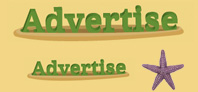
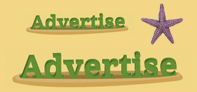
changed navigation

diff --git a/site_media/css/global.css b/site_media/css/global.css
@@ -31,10 +31,10 @@ ul#navigation {height:46px;}
 ul#navigation li {float:left;min-width:130px;padding:0 30px;}
 ul#navigation li a {cursor:pointer;display:block;height:46px;}
 ul#navigation li a#home {background:transparent url(/site_media/images/navigation/home.jpg) no-repeat scroll 0 0;width:125px;}
+ul#navigation li a#rent {background:transparent url(/site_media/images/navigation/rent.jpg) no-repeat scroll 0 0;width:190px;}
 ul#navigation li a#advertise {background:transparent url(/site_media/images/navigation/advertise.jpg) no-repeat scroll 0 0;width:198px;}
-ul#navigation li a#calendar {background:transparent url(/site_media/images/navigation/calendar.jpg) no-repeat scroll 0 0;width:190px;}
 ul#navigation li a#contact {background:transparent url(/site_media/images/navigation/contact.jpg) no-repeat scroll 0 0;width:172px;}
-ul#navigation li a#home:hover, ul#navigation li a#advertise:hover, ul#navigation li a#calendar:hover, ul#navigation li a#contact:hover {background-position:0 -46px;}
+ul#navigation li a#home:hover, ul#navigation li a#advertise:hover, ul#navigation li a#rent:hover, ul#navigation li a#contact:hover {background-position:0 -46px;}
 
 /*===================== generic ===================================*/
 .left{float:left;}

diff --git a/templates/site_base.html b/templates/site_base.html
@@ -7,10 +7,10 @@
 			<a href="{% url home %}" id="home"><span>Home</span></a>
 		</li>
 		<li>
-			<a href="{% url adlist %}" id="advertise"><span>Advertise</span></a>
+			<a href="{% url calendar %}" id="rent"><span>Rent</span></a>
 		</li>
 		<li>
-			<a href="{% url calendar %}" id="calendar"><span>Calendar</span></a>
+			<a href="{% url adlist %}" id="advertise"><span>Advertise</span></a>
 		</li>
 		<li>
 			<a href="{% url contact %}" id="contact"><span>Contact</span></a>
